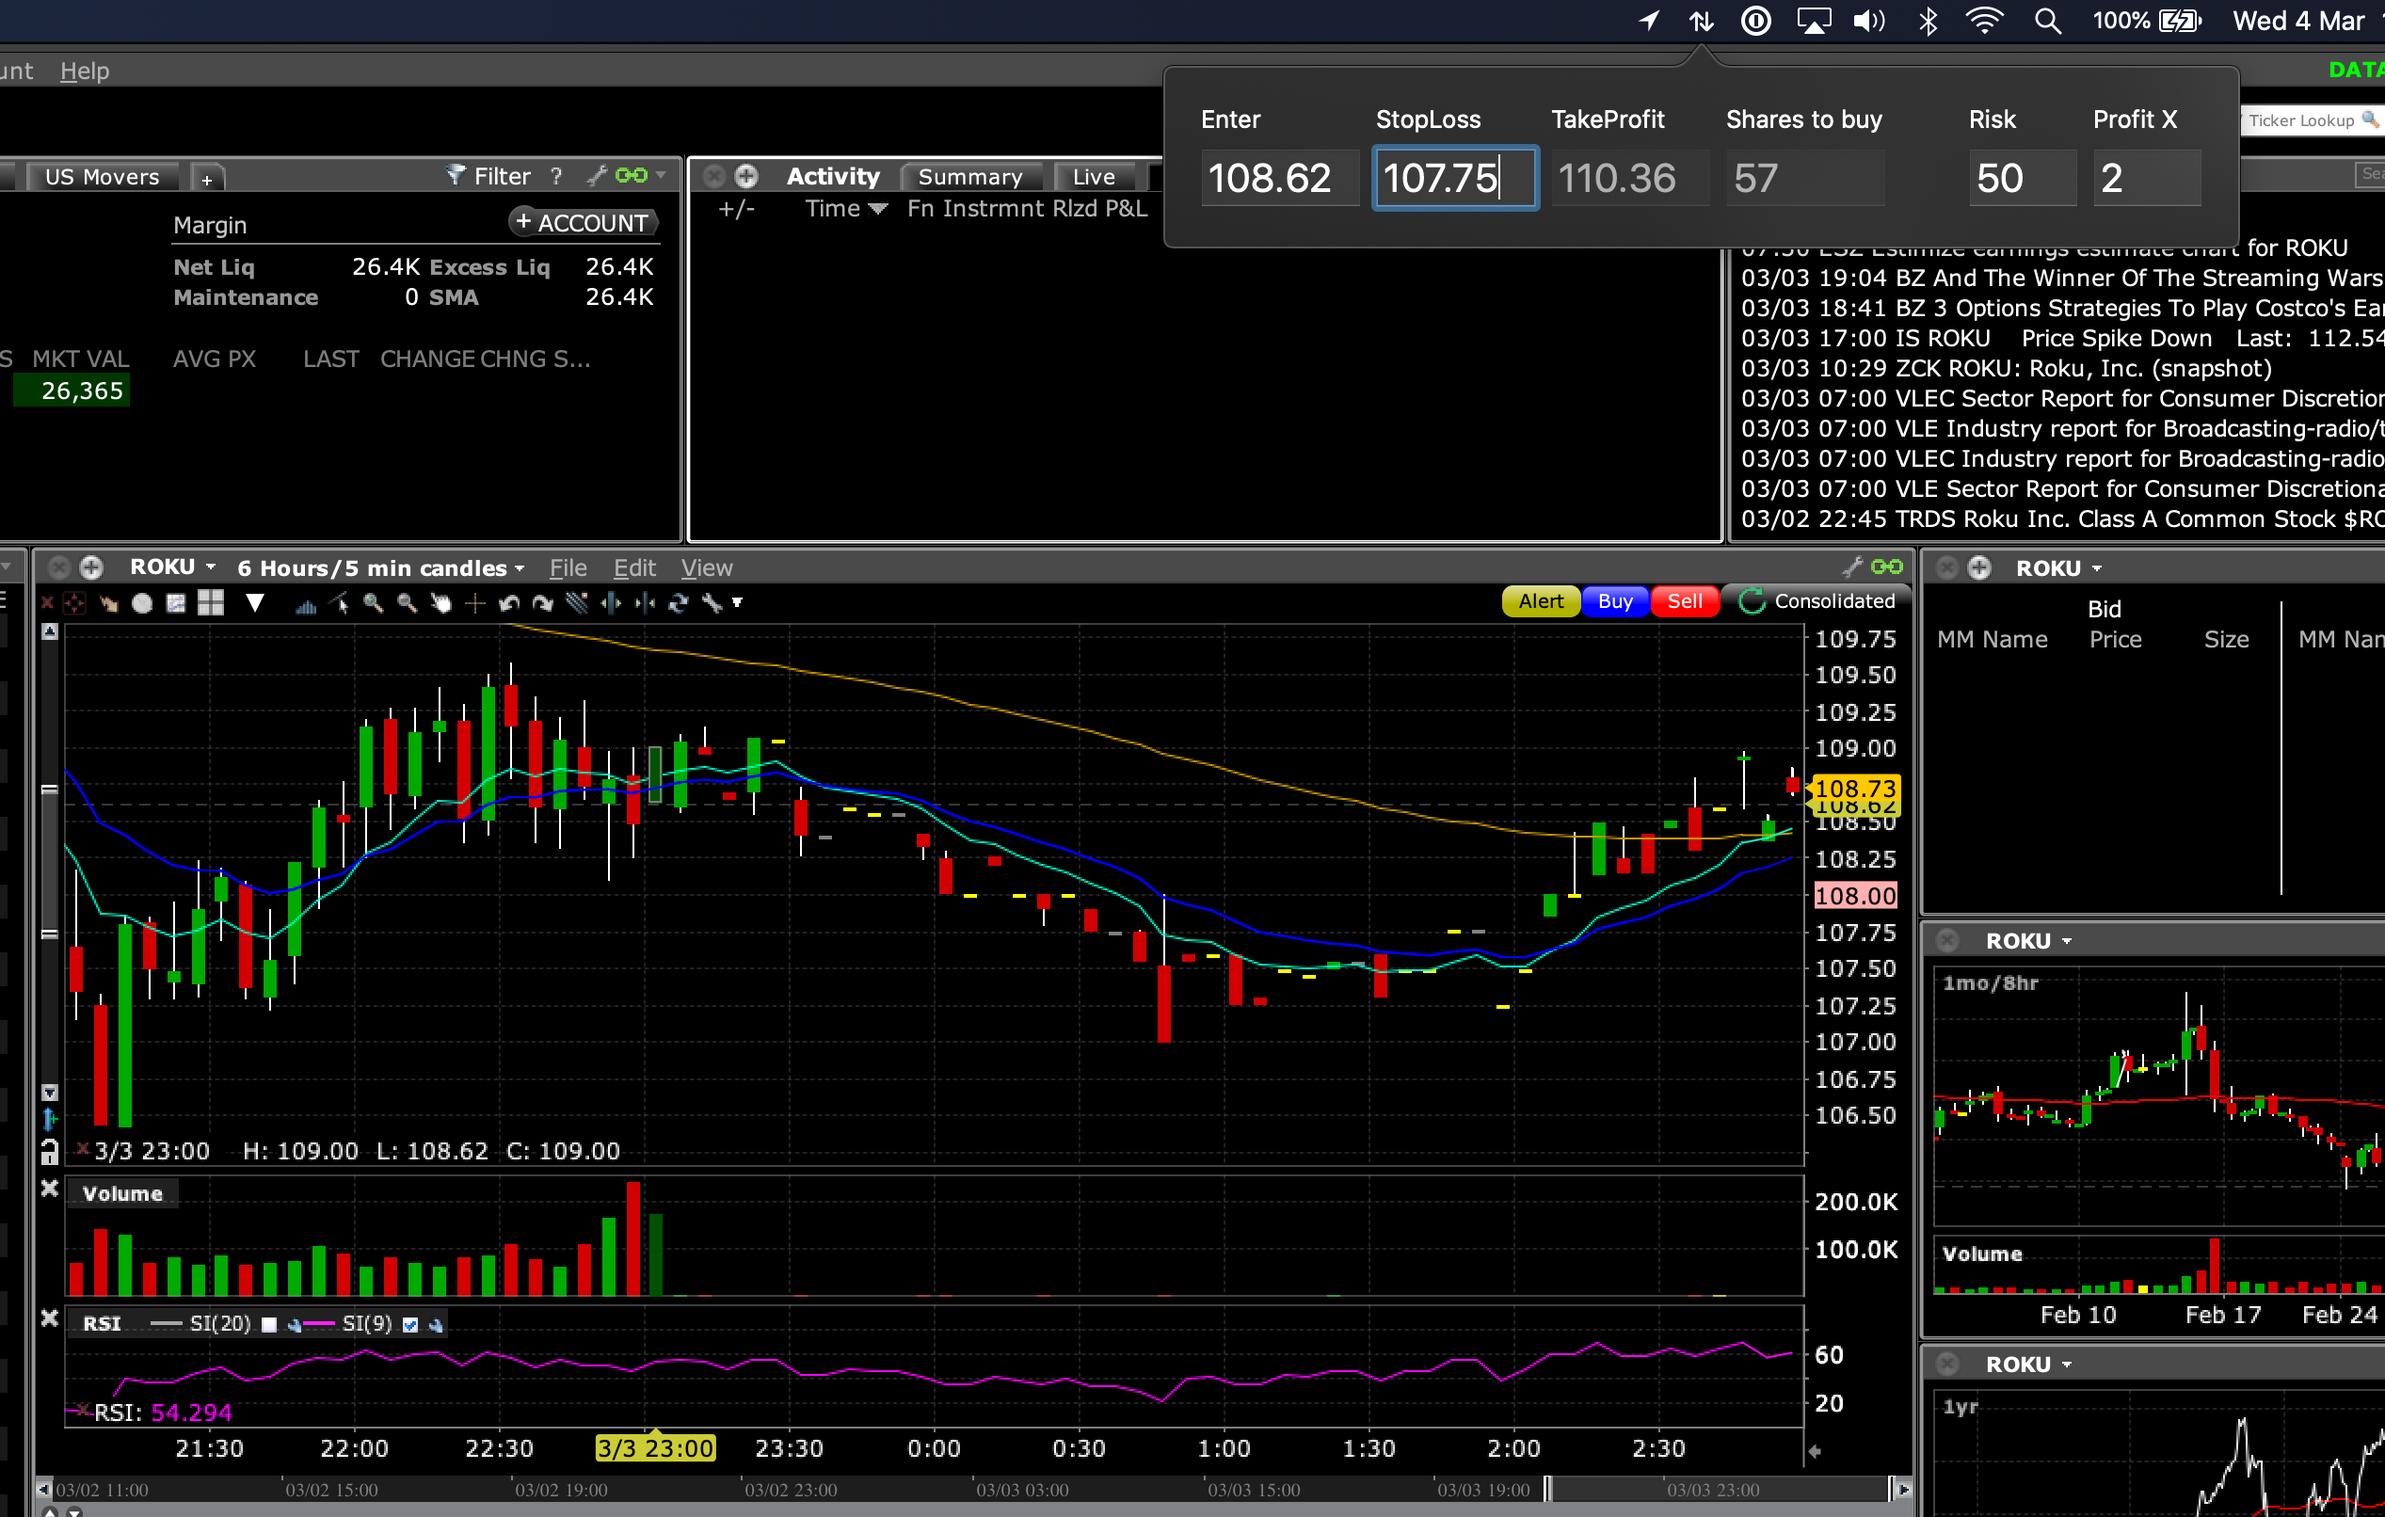
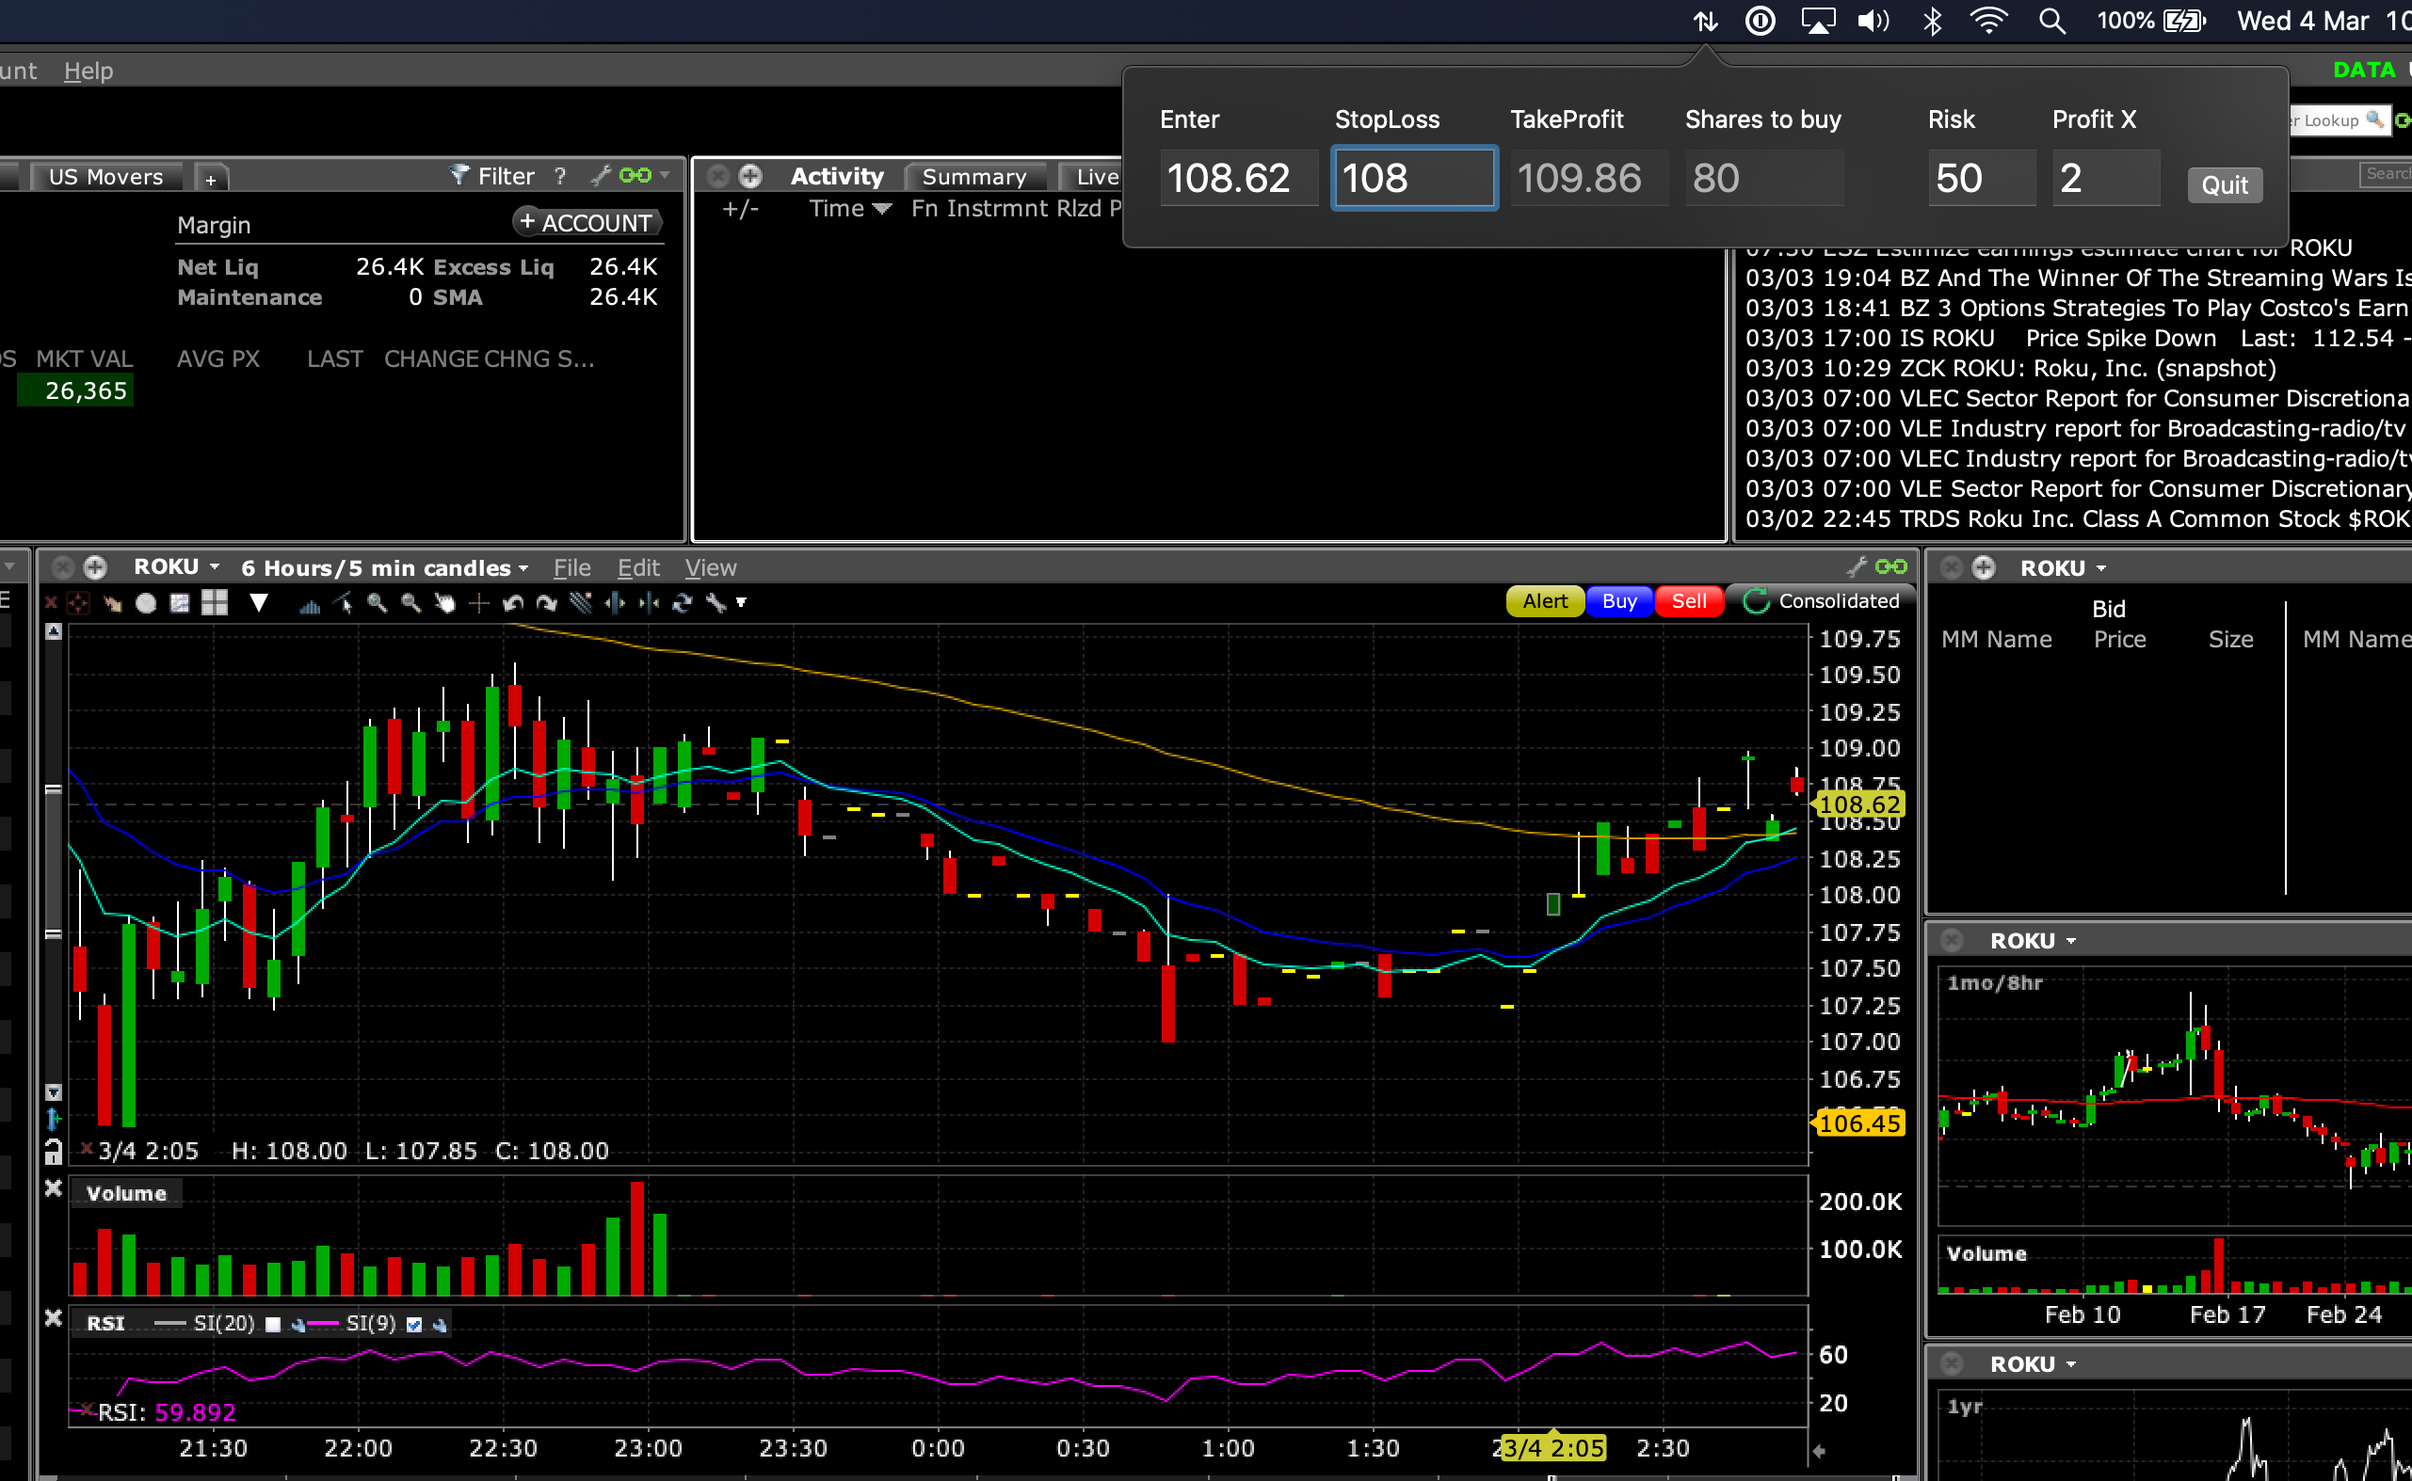
add quit button

Changed region(s): [[0.0, 0.0, 1.0, 1.0], [0.4053, 0.467, 0.4676, 0.4981]]

diff --git a/ProfitVolume/ViewController.swift b/ProfitVolume/ViewController.swift
@@ -1,13 +1,13 @@
 import Cocoa
 
 class ViewController: NSViewController, NSTextFieldDelegate {
-    @IBOutlet var risk: NSTextField!
-    @IBOutlet var profitX: NSTextField!
-    @IBOutlet var enter: NSTextField!
-    @IBOutlet var stopLoss: NSTextField!
-    @IBOutlet var takeProfit: NSTextField!
-    @IBOutlet var sharesToBuy: NSTextField!
- 
+    @IBOutlet var riskInput: NSTextField!
+    @IBOutlet var profitXInput: NSTextField!
+    @IBOutlet var enterInput: NSTextField!
+    @IBOutlet var stopLossInput: NSTextField!
+    @IBOutlet var takeProfitInput: NSTextField!
+    @IBOutlet var sharesToBuyInput: NSTextField!
+
     enum TradeType: Int {
         case short, long
     }
@@ -20,23 +20,28 @@ class ViewController: NSViewController, NSTextFieldDelegate {
     func controlTextDidChange(_ obj: Notification) {
         typeChanged(self)
     }
+    
+    @IBAction func quitWindowButtonTapped(button: NSButton) {
+        exit(0)
+    }
 
     func typeChanged(_ sender: Any) {
-        if !risk.stringValue.isEmpty && !profitX.stringValue.isEmpty && !enter.stringValue.isEmpty && !stopLoss.stringValue.isEmpty {
+        if !riskInput.stringValue.isEmpty && !profitXInput.stringValue.isEmpty &&
+            !enterInput.stringValue.isEmpty && !stopLossInput.stringValue.isEmpty {
             
-            let takeProfitValue, sharesToBuyValue: Float
-            let tradeType = getTradeType(enter: enter.floatValue, stopLoss: stopLoss.floatValue)
+            let takeProfit, sharesToBuy: Float
+            let tradeType = getTradeType(enter: enterInput.floatValue, stopLoss: stopLossInput.floatValue)
             
             if tradeType == TradeType.short {
-                sharesToBuyValue = risk.floatValue / (enter.floatValue - stopLoss.floatValue)
-                takeProfitValue = enter.floatValue + ((enter.floatValue - stopLoss.floatValue) * profitX.floatValue)
+                sharesToBuy = riskInput.floatValue / (enterInput.floatValue - stopLossInput.floatValue)
+                takeProfit = enterInput.floatValue + ((enterInput.floatValue - stopLossInput.floatValue) * profitXInput.floatValue)
             } else {
-                sharesToBuyValue = risk.floatValue / (stopLoss.floatValue - enter.floatValue)
-                takeProfitValue = enter.floatValue - ((stopLoss.floatValue - enter.floatValue) * profitX.floatValue)
+                sharesToBuy = riskInput.floatValue / (stopLossInput.floatValue - enterInput.floatValue)
+                takeProfit = enterInput.floatValue - ((stopLossInput.floatValue - enterInput.floatValue) * profitXInput.floatValue)
             }
-            if isNotInfiniteOrNan(a: sharesToBuyValue) && isNotInfiniteOrNan(a: takeProfitValue) {
-                sharesToBuy.intValue = Int32(sharesToBuyValue)
-                takeProfit.stringValue = String(format: "%.2f", takeProfitValue)
+            if isNotInfiniteOrNan(a: sharesToBuy) && isNotInfiniteOrNan(a: takeProfit) {
+                sharesToBuyInput.intValue = Int32(sharesToBuy)
+                takeProfitInput.stringValue = String(format: "%.2f", takeProfit)
             }
         }
         

diff --git a/ProfitVolume/AppDelegate.swift b/ProfitVolume/AppDelegate.swift
@@ -3,7 +3,7 @@ import Cocoa
 @NSApplicationMain
 class AppDelegate: NSObject, NSApplicationDelegate {
     let statusItem = NSStatusBar.system.statusItem(withLength: NSStatusItem.variableLength)
-
+    let popoverView = NSPopover()
 
     func applicationDidFinishLaunching(_ aNotification: Notification) {
         statusItem.button?.title = "⇅"
@@ -25,7 +25,6 @@ class AppDelegate: NSObject, NSApplicationDelegate {
             fatalError("Couldn't find status item button.")
         }
 
-        let popoverView = NSPopover()
         popoverView.contentViewController = vc
         popoverView.behavior = .semitransient
         popoverView.show(relativeTo: button.bounds, of: button, preferredEdge: .maxY)
